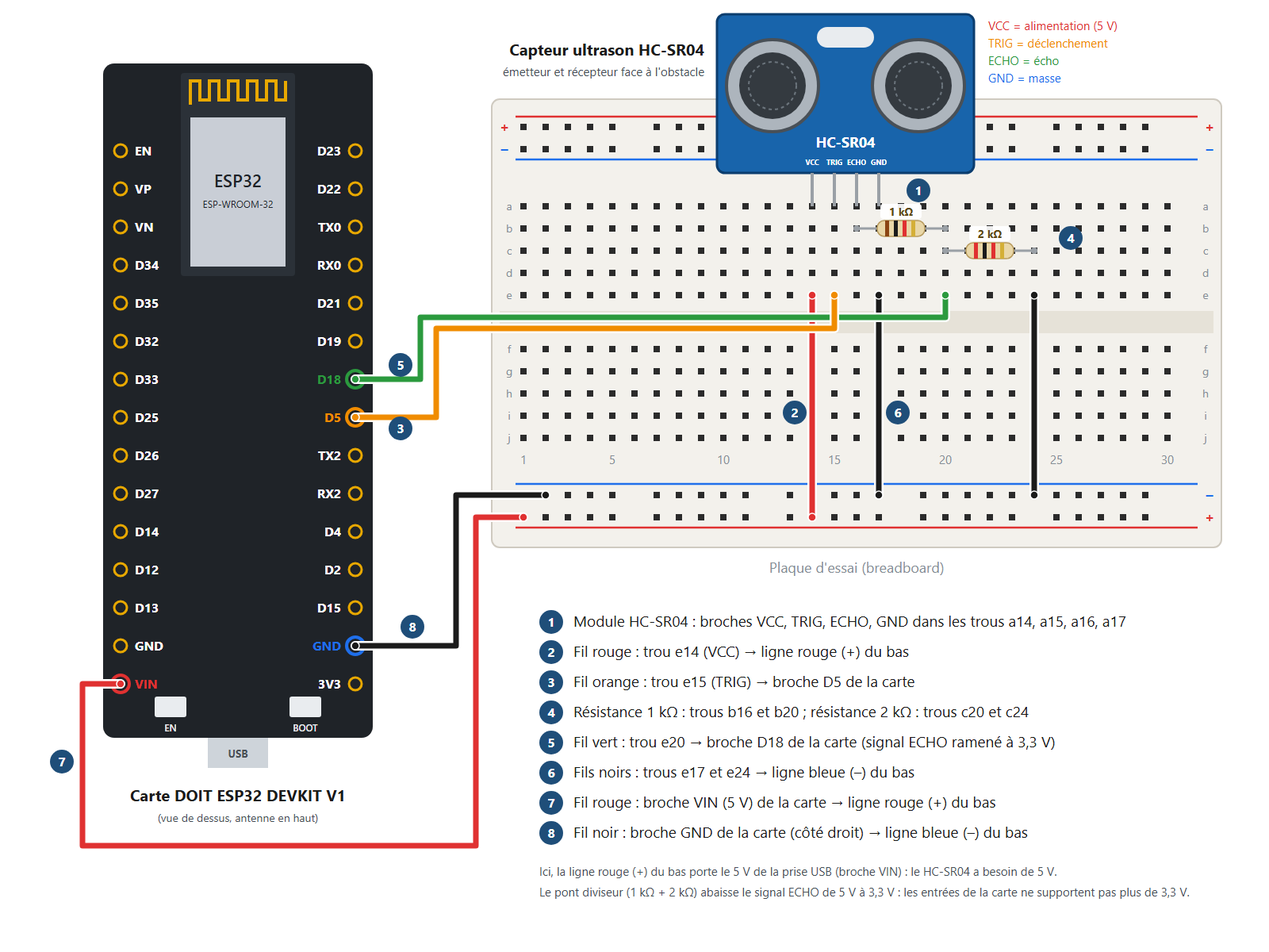
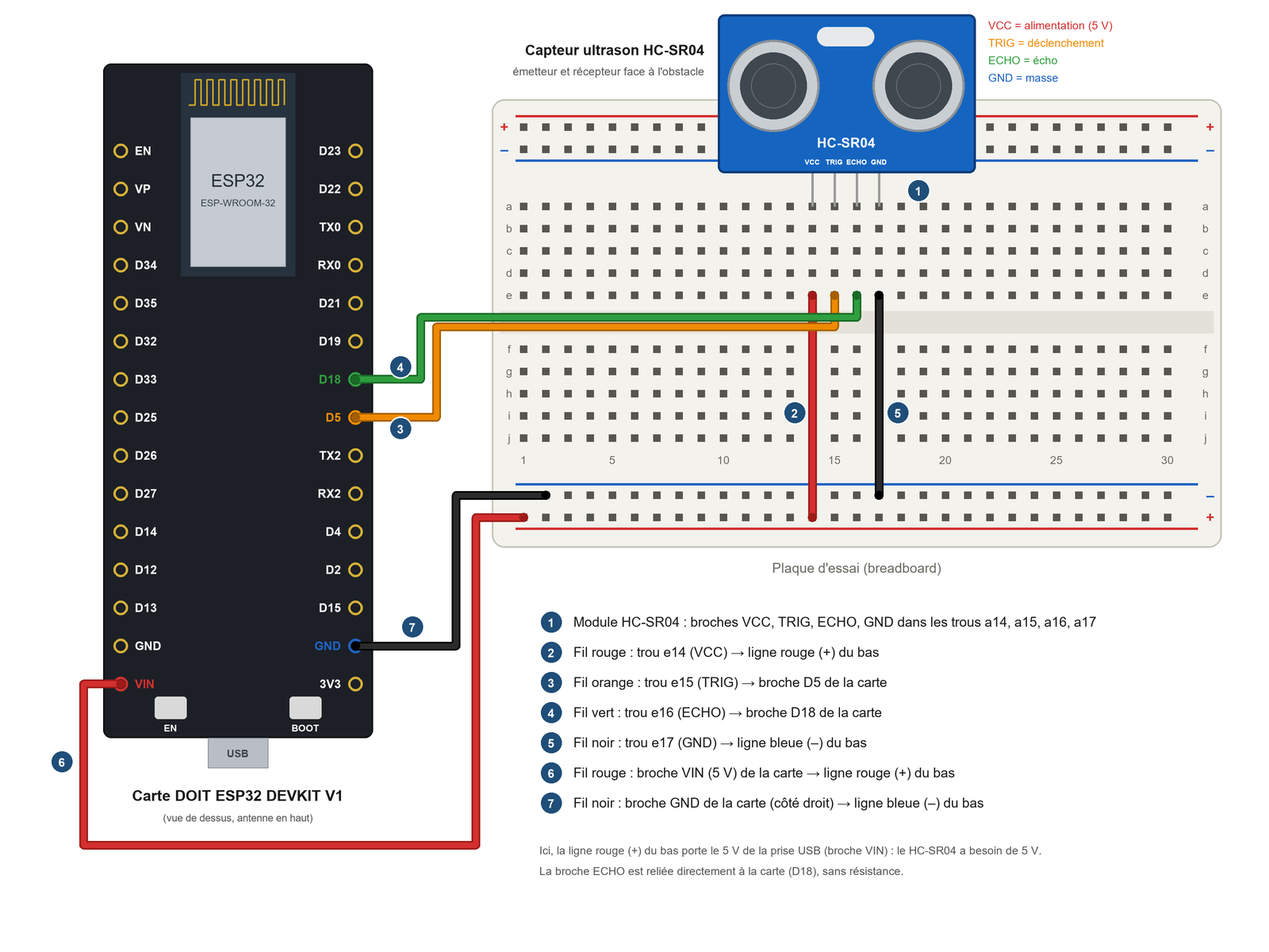
HC-SR04 : relier ECHO directement à la carte, sans pont diviseur
Fiches 06, 08 et 08.0, schémas, programmes et générateur mis à jour.

diff --git a/06_TP_Serveur_Web_capteur HCSR04/index.html b/06_TP_Serveur_Web_capteur HCSR04/index.html
@@ -26,11 +26,11 @@
 <nav class="serie" aria-label="Les TP"><a href="../03_TP_Intro_ESP32/index.html"><b>TP 03</b>TP Intro ESP32</a><a href="../04_TP_Serveur_Web_LED/index.html"><b>TP 04</b>TP serveur web LED</a><a href="../05_TP_Serveur_Web_DHT11/index.html"><b>TP 05</b>TP serveur web DHT11</a><span class="ici"><b>TP 06</b>TP capteur HC-SR04</span><a href="../07_TP_Serveur_Web_servomoteur%20SG90/index.html"><b>TP 07</b>TP servomoteur SG90</a><a href="../08_0_Activite_Maintenance_Machine_v0/index.html"><b>TP 08.0</b>Activité maintenance v0</a><a href="../08_Activite_Maintenance_Machine/index.html"><b>TP 08</b>Activité maintenance</a></nav>
 
 <section><h2>1. Objectifs</h2>
-<ul><li>Comprendre comment le capteur HC-SR04 mesure une distance avec des ultrasons.</li><li>Réaliser le câblage du capteur, avec son pont diviseur, puis de trois LED.</li><li>Écrire et tester votre programme de mesure dans l&#x27;Arduino IDE.</li><li>Simuler l&#x27;espace de travail d&#x27;un robot mobile : une LED rouge, jaune ou verte s&#x27;allume selon la distance de l&#x27;obstacle.</li><li>Créer le serveur web avec le générateur de tableau de bord : jauge, voyants, courbe et fichier CSV.</li><li>Déterminer l&#x27;erreur de mesure du capteur avec un tableur.</li></ul>
+<ul><li>Comprendre comment le capteur HC-SR04 mesure une distance avec des ultrasons.</li><li>Réaliser le câblage du capteur, puis de trois LED.</li><li>Écrire et tester votre programme de mesure dans l&#x27;Arduino IDE.</li><li>Simuler l&#x27;espace de travail d&#x27;un robot mobile : une LED rouge, jaune ou verte s&#x27;allume selon la distance de l&#x27;obstacle.</li><li>Créer le serveur web avec le générateur de tableau de bord : jauge, voyants, courbe et fichier CSV.</li><li>Déterminer l&#x27;erreur de mesure du capteur avec un tableur.</li></ul>
 <div class="note "><p class="nt">Ce qui vous est fourni</p><ul><li>Le générateur de tableau de bord (<a href="../09_Application_Generateur_Page_Web/Generateur_Page_Web_ESP32_etudiant.html">Generateur_Page_Web_ESP32_etudiant.html</a>, ou en ligne : <a href="https://celdobigeon.github.io/IoT/">celdobigeon.github.io/IoT</a>) : c&#x27;est avec lui que vous créerez le programme du serveur web.</li><li>Les schémas de câblage et le schéma électrique de cette fiche.</li></ul><p>Votre travail : le câblage, vos programmes de mesure et de l&#x27;espace de travail, la création du serveur web avec le générateur, les tests, l&#x27;étude de l&#x27;erreur de mesure et les questions.</p></div>
 </section>
 <section><h2>2. Matériel</h2>
-<div class="tbl"><table><tr><th><p><b>Matériel</b></p></th><th><p><b>Remarque</b></p></th></tr><tr><td><p>1 carte DOIT ESP32 DEVKIT V1 + câble micro-USB</p></td><td><p>Le câble doit permettre le transfert de données (pas seulement la charge)</p></td></tr><tr><td><p>1 capteur ultrason HC-SR04</p></td><td><p>4 broches : VCC, TRIG, ECHO, GND. Il s&#x27;alimente en 5 V</p></td></tr><tr><td><p>1 résistance de 1 kΩ et 1 résistance de 2 kΩ</p></td><td><p>Le pont diviseur du signal ECHO (marron-noir-rouge et rouge-noir-rouge)</p></td></tr><tr><td><p>3 LED (rouge, jaune, verte) + 3 résistances de 220 Ω</p></td><td><p>Pour l&#x27;espace de travail du robot (partie 6)</p></td></tr><tr><td><p>1 plaque d&#x27;essai + fils mâle-femelle et mâle-mâle</p></td><td><p>Côté femelle : sur les broches de la carte ; côté mâle : dans la plaque d&#x27;essai</p></td></tr><tr><td><p>1 réglet (ou un mètre) et un obstacle plat (livre, carton)</p></td><td><p>Pour connaître la distance réelle de l&#x27;obstacle</p></td></tr><tr><td><p>1 ordinateur avec l&#x27;Arduino IDE</p></td><td><p>Les cartes ESP32 sont déjà installées</p></td></tr><tr><td><p>1 smartphone (ou l&#x27;ordinateur) avec un navigateur web</p></td><td><p>Connecté au même réseau Wi-Fi que la carte</p></td></tr><tr><td><p>Un tableur (Excel ou LibreOffice Calc)</p></td><td><p>Pour étudier l&#x27;erreur de mesure</p></td></tr></table></div>
+<div class="tbl"><table><tr><th><p><b>Matériel</b></p></th><th><p><b>Remarque</b></p></th></tr><tr><td><p>1 carte DOIT ESP32 DEVKIT V1 + câble micro-USB</p></td><td><p>Le câble doit permettre le transfert de données (pas seulement la charge)</p></td></tr><tr><td><p>1 capteur ultrason HC-SR04</p></td><td><p>4 broches : VCC, TRIG, ECHO, GND. Il s&#x27;alimente en 5 V</p></td></tr><tr><td><p>3 LED (rouge, jaune, verte) + 3 résistances de 220 Ω</p></td><td><p>Pour l&#x27;espace de travail du robot (partie 6)</p></td></tr><tr><td><p>1 plaque d&#x27;essai + fils mâle-femelle et mâle-mâle</p></td><td><p>Côté femelle : sur les broches de la carte ; côté mâle : dans la plaque d&#x27;essai</p></td></tr><tr><td><p>1 réglet (ou un mètre) et un obstacle plat (livre, carton)</p></td><td><p>Pour connaître la distance réelle de l&#x27;obstacle</p></td></tr><tr><td><p>1 ordinateur avec l&#x27;Arduino IDE</p></td><td><p>Les cartes ESP32 sont déjà installées</p></td></tr><tr><td><p>1 smartphone (ou l&#x27;ordinateur) avec un navigateur web</p></td><td><p>Connecté au même réseau Wi-Fi que la carte</p></td></tr><tr><td><p>Un tableur (Excel ou LibreOffice Calc)</p></td><td><p>Pour étudier l&#x27;erreur de mesure</p></td></tr></table></div>
 </section>
 <section><h2>3. Le capteur ultrason HC-SR04</h2>
 <p>Le capteur HC-SR04 mesure la distance d&#x27;un obstacle grâce aux ultrasons. Le module contient un émetteur et un récepteur d&#x27;ultrasons, et une puce qui les pilote.</p>
@@ -44,19 +44,19 @@
 <p>La broche ECHO reste à HIGH pendant les étapes 3 et 4 : sa durée est celle de l&#x27;aller-retour des ultrasons. La carte mesure cette durée et en déduit la distance.</p>
 <div class="note "><p class="nt">Calculer la distance</p><p>Le son parcourt environ 343 m/s dans l&#x27;air à 20 °C, soit <b>0,343 mm par microseconde</b>.</p><p>La durée mesurée correspond à un <b>aller-retour</b> : la distance de l&#x27;obstacle est la moitié du chemin parcouru.</p><p>Distance (mm) = durée (µs) × 0,343 / 2</p></div>
 <h3>Caractéristiques techniques</h3>
-<div class="tbl"><table><tr><th><p><b>Caractéristique</b></p></th><th><p><b>Valeur</b></p></th></tr><tr><td><p>Tension d&#x27;alimentation</p></td><td><p>5 V</p></td></tr><tr><td><p>Consommation</p></td><td><p>environ 20 mA en fonctionnement</p></td></tr><tr><td><p>Portée</p></td><td><p>de 2 cm à 4 m en théorie ; de 10 cm à 2,5 m pour de bons résultats</p></td></tr><tr><td><p>Angle de mesure</p></td><td><p>moins de 15°</p></td></tr><tr><td><p>Fréquence des ultrasons</p></td><td><p>40 kHz</p></td></tr><tr><td><p>Signal ECHO</p></td><td><p>5 V quand il est à HIGH : il faut l&#x27;abaisser à 3,3 V pour la carte</p></td></tr></table></div>
+<div class="tbl"><table><tr><th><p><b>Caractéristique</b></p></th><th><p><b>Valeur</b></p></th></tr><tr><td><p>Tension d&#x27;alimentation</p></td><td><p>5 V</p></td></tr><tr><td><p>Consommation</p></td><td><p>environ 20 mA en fonctionnement</p></td></tr><tr><td><p>Portée</p></td><td><p>de 2 cm à 4 m en théorie ; de 10 cm à 2,5 m pour de bons résultats</p></td></tr><tr><td><p>Angle de mesure</p></td><td><p>moins de 15°</p></td></tr><tr><td><p>Fréquence des ultrasons</p></td><td><p>40 kHz</p></td></tr><tr><td><p>Signal ECHO</p></td><td><p>5 V quand il est à HIGH : la broche ECHO est reliée directement à la carte</p></td></tr></table></div>
 </section>
 <section><h2>4. Le câblage</h2>
-<div class="note amber"><p class="nt">Rappels</p><ul><li>Le HC-SR04 s&#x27;alimente en 5 V : la broche VIN de la carte fournit le 5 V de la prise USB.</li><li>La broche ECHO renvoie 5 V, alors que les entrées de la carte ne supportent que 3,3 V : le pont diviseur (1 kΩ et 2 kΩ) abaisse ce signal à 3,3 V.</li><li>Sur la plaque d&#x27;essai, les 5 trous d&#x27;une même colonne (a à e, ou f à j) sont reliés entre eux.</li><li>Réalisez tout le câblage carte débranchée.</li></ul></div>
+<div class="note amber"><p class="nt">Rappels</p><ul><li>Le HC-SR04 s&#x27;alimente en 5 V : la broche VIN de la carte fournit le 5 V de la prise USB.</li><li>La broche ECHO se relie directement à une entrée de la carte (D18), sans résistance.</li><li>Sur la plaque d&#x27;essai, les 5 trous d&#x27;une même colonne (a à e, ou f à j) sont reliés entre eux.</li><li>Réalisez tout le câblage carte débranchée.</li></ul></div>
 <h3>Schéma de câblage</h3>
 <figure><img src="img/figure_03.png" alt="" loading="lazy" style="max-width:623px"></figure>
-<p>Figure 3 – Câblage du capteur HC-SR04 et de son pont diviseur (les numéros correspondent à la légende)</p>
+<p>Figure 3 – Câblage du capteur HC-SR04 (les numéros correspondent à la légende)</p>
 <h3>Schéma électrique</h3>
 <figure><img src="img/figure_04.png" alt="" loading="lazy" style="max-width:623px"></figure>
-<p>Figure 4 – Schéma électrique : capteur HC-SR04, pont diviseur et trois LED (les LED servent à la partie 6)</p>
+<p>Figure 4 – Schéma électrique : capteur HC-SR04 et trois LED (les LED servent à la partie 6)</p>
 <h3>Étapes</h3>
-<ol><li><b>Capteur HC-SR04</b> : broches VCC, TRIG, ECHO, GND dans les trous a14, a15, a16, a17, émetteur et récepteur face à vous.</li><li><b>Fil rouge</b> : du trou e14 (VCC) à la ligne rouge (+) du bas.</li><li><b>Fil orange</b> : du trou e15 (TRIG) à la broche <b>D5</b> de la carte.</li><li><b>Résistance 1 kΩ</b> dans les trous b16 et b20 ; <b>résistance 2 kΩ</b> dans les trous c20 et c24.</li><li><b>Fil vert</b> : du trou e20 à la broche <b>D18</b> de la carte (signal ECHO ramené à 3,3 V).</li><li><b>Fils noirs</b> : des trous e17 et e24 à la ligne bleue (–) du bas.</li><li><b>Fil rouge</b> : de la broche <b>VIN</b> (5 V) de la carte à la ligne rouge (+) du bas.</li><li><b>Fil noir</b> : de la broche <b>GND</b> de la carte (côté droit) à la ligne bleue (–) du bas.</li></ol>
-<div class="note warn"><p class="nt">Attention</p><ul><li>Ne reliez jamais la broche ECHO directement à la carte : 5 V sur une entrée prévue pour 3,3 V peut l&#x27;abîmer.</li><li>Ici, la ligne rouge (+) du bas porte du 5 V : n&#x27;y branchez pas de composant prévu pour 3,3 V.</li></ul></div>
+<ol><li><b>Capteur HC-SR04</b> : broches VCC, TRIG, ECHO, GND dans les trous a14, a15, a16, a17, émetteur et récepteur face à vous.</li><li><b>Fil rouge</b> : du trou e14 (VCC) à la ligne rouge (+) du bas.</li><li><b>Fil orange</b> : du trou e15 (TRIG) à la broche <b>D5</b> de la carte.</li><li><b>Fil vert : du trou e16 (ECHO) à la broche D18 de la carte.</b></li><li><b>Fil noir : du trou e17 (GND) à la ligne bleue (–) du bas.</b></li><li><b>Fil rouge</b> : de la broche <b>VIN</b> (5 V) de la carte à la ligne rouge (+) du bas.</li><li><b>Fil noir</b> : de la broche <b>GND</b> de la carte (côté droit) à la ligne bleue (–) du bas.</li></ol>
+<div class="note warn"><p class="nt">Attention</p><ul><li>La broche ECHO renvoie 5 V à l&#x27;état HIGH, au-dessus des 3,3 V prévus pour les broches de la carte : ce montage simplifié fonctionne avec ces modules, mais ne reliez pas d&#x27;autre composant 5 V de cette façon.</li><li>Ici, la ligne rouge (+) du bas porte du 5 V : n&#x27;y branchez pas de composant prévu pour 3,3 V.</li></ul></div>
 <p><b>Faites vérifier votre câblage par l&#x27;enseignant avant de brancher la carte.</b></p>
 <ul class="check"><li>Câblage vérifié</li></ul>
 </section>
@@ -89,7 +89,7 @@
 <ul class="check"><li>Les deux graphiques sont réalisés</li></ul>
 </section>
 <section class="questions"><h2>10. Questions de compréhension</h2>
-<ol><li>Pourquoi divise-t-on par 2 la durée de l&#x27;écho pour calculer la distance ?</li><li>Le capteur mesure une durée d&#x27;écho de 1 200 µs. À quelle distance se trouve l&#x27;obstacle ?</li><li>Pourquoi faut-il un pont diviseur sur la broche ECHO, mais pas sur la broche TRIG ? Calculez la tension obtenue avec 1 kΩ et 2 kΩ.</li><li>Dans le programme du serveur web, qui allume les LED : la page web ou la carte ? Que se passe-t-il quand personne n&#x27;ouvre la page ?</li><li>Que renvoie pulseIn() quand aucun obstacle ne renvoie d&#x27;écho ? Comment le programme créé par le générateur évite-t-il d&#x27;afficher 0 ?</li><li>D&#x27;après votre étude de l&#x27;erreur, sur quelle plage de distances le capteur est-il le plus fiable ? Proposez une explication aux écarts en dehors de cette plage.</li><li>La vitesse du son dépend de la température : 331 m/s à 0 °C, 343 m/s à 20 °C. Quelle erreur commet-on à 0 °C pour un obstacle à 300 mm, si le programme garde 343 m/s ?</li><li>Maintenance : on veut surveiller le niveau d&#x27;huile d&#x27;une cuve avec ce capteur, placé au-dessus. Que mesure-t-il exactement ? Comment en déduire la hauteur d&#x27;huile ?</li></ol>
+<ol><li>Pourquoi divise-t-on par 2 la durée de l&#x27;écho pour calculer la distance ?</li><li>Le capteur mesure une durée d&#x27;écho de 1 200 µs. À quelle distance se trouve l&#x27;obstacle ?</li><li>Quel est le rôle de la broche TRIG et celui de la broche ECHO ? Laquelle est une entrée du capteur, laquelle est une sortie ?</li><li>Dans le programme du serveur web, qui allume les LED : la page web ou la carte ? Que se passe-t-il quand personne n&#x27;ouvre la page ?</li><li>Que renvoie pulseIn() quand aucun obstacle ne renvoie d&#x27;écho ? Comment le programme créé par le générateur évite-t-il d&#x27;afficher 0 ?</li><li>D&#x27;après votre étude de l&#x27;erreur, sur quelle plage de distances le capteur est-il le plus fiable ? Proposez une explication aux écarts en dehors de cette plage.</li><li>La vitesse du son dépend de la température : 331 m/s à 0 °C, 343 m/s à 20 °C. Quelle erreur commet-on à 0 °C pour un obstacle à 300 mm, si le programme garde 343 m/s ?</li><li>Maintenance : on veut surveiller le niveau d&#x27;huile d&#x27;une cuve avec ce capteur, placé au-dessus. Que mesure-t-il exactement ? Comment en déduire la hauteur d&#x27;huile ?</li></ol>
 </section>
 <section><h2>11. Pour aller plus loin</h2>
 <h3>A. Afficher la distance sur un écran LCD (I2C)</h3>
@@ -98,7 +98,7 @@
 <ul><li>Ajoutez le module DHT11 du TP 05 et calculez la vitesse du son : v (m/s) = 331,3 + 0,606 × température (°C).</li><li>Utilisez cette vitesse dans le calcul de la distance, et comparez avec la valeur à 343 m/s.</li></ul>
 </section>
 <section><h2>12. En cas de problème</h2>
-<div class="tbl"><table><tr><th><p><b>Problème</b></p></th><th><p><b>Solution</b></p></th></tr><tr><td><p>La carte n&#x27;apparaît pas dans Outils &gt; Port</p></td><td><p>Vérifier le câble micro-USB (données), installer le pilote USB (CP210x), changer de port USB.</p></td></tr><tr><td><p>Le téléversement bloque sur « Connecting… »</p></td><td><p>Maintenir le bouton BOOT enfoncé au début du téléversement.</p></td></tr><tr><td><p>La distance affichée vaut toujours 0</p></td><td><p>Vérifier l&#x27;alimentation 5 V (fil VIN → ligne rouge), les broches TRIG (D5) et ECHO (D18) dans le câblage et le programme, et le pont diviseur.</p></td></tr><tr><td><p>La distance saute ou est fausse</p></td><td><p>Obstacle trop petit, trop loin, mou (tissu) ou de biais : utiliser un obstacle plat, face au capteur, entre 10 cm et 2,5 m.</p></td></tr><tr><td><p>Des points s&#x27;affichent sans fin dans le moniteur série</p></td><td><p>La carte ne trouve pas le réseau Wi-Fi : vérifier le nom et le mot de passe saisis dans le générateur, puis prévenir l&#x27;enseignant.</p></td></tr><tr><td><p>Rien ne s&#x27;affiche dans le moniteur série</p></td><td><p>Régler la vitesse sur 115200 bauds, puis appuyer sur EN.</p></td></tr><tr><td><p>Une LED ne s&#x27;allume jamais</p></td><td><p>Vérifier sa broche (D21, D22 ou D23), le sens de la LED, sa résistance et sa liaison à la ligne bleue (–).</p></td></tr><tr><td><p>La page ne s&#x27;ouvre pas</p></td><td><p>Vérifier que le téléphone est sur le même Wi-Fi et que l&#x27;adresse commence par http:// (et non https://).</p></td></tr></table></div>
+<div class="tbl"><table><tr><th><p><b>Problème</b></p></th><th><p><b>Solution</b></p></th></tr><tr><td><p>La carte n&#x27;apparaît pas dans Outils &gt; Port</p></td><td><p>Vérifier le câble micro-USB (données), installer le pilote USB (CP210x), changer de port USB.</p></td></tr><tr><td><p>Le téléversement bloque sur « Connecting… »</p></td><td><p>Maintenir le bouton BOOT enfoncé au début du téléversement.</p></td></tr><tr><td><p>La distance affichée vaut toujours 0</p></td><td><p>Vérifier l&#x27;alimentation 5 V (fil VIN → ligne rouge) et les broches TRIG (D5) et ECHO (D18) dans le câblage et le programme.</p></td></tr><tr><td><p>La distance saute ou est fausse</p></td><td><p>Obstacle trop petit, trop loin, mou (tissu) ou de biais : utiliser un obstacle plat, face au capteur, entre 10 cm et 2,5 m.</p></td></tr><tr><td><p>Des points s&#x27;affichent sans fin dans le moniteur série</p></td><td><p>La carte ne trouve pas le réseau Wi-Fi : vérifier le nom et le mot de passe saisis dans le générateur, puis prévenir l&#x27;enseignant.</p></td></tr><tr><td><p>Rien ne s&#x27;affiche dans le moniteur série</p></td><td><p>Régler la vitesse sur 115200 bauds, puis appuyer sur EN.</p></td></tr><tr><td><p>Une LED ne s&#x27;allume jamais</p></td><td><p>Vérifier sa broche (D21, D22 ou D23), le sens de la LED, sa résistance et sa liaison à la ligne bleue (–).</p></td></tr><tr><td><p>La page ne s&#x27;ouvre pas</p></td><td><p>Vérifier que le téléphone est sur le même Wi-Fi et que l&#x27;adresse commence par http:// (et non https://).</p></td></tr></table></div>
 </section>
 <footer>Céline Dobigeon — IUT, Université de Bordeaux · <a href="../index.html">Retour à l'accueil</a></footer>
 </div>

diff --git a/08_Activite_Maintenance_Machine/index.html b/08_Activite_Maintenance_Machine/index.html
@@ -35,12 +35,12 @@
 <div class="note "><p class="nt">Règles de fonctionnement</p><ul><li>L&#x27;état de la machine est celui de l&#x27;indicateur le plus grave.</li><li>ALERTE (orange) : la machine continue, mais il faut prévoir une intervention.</li><li>ALARME (rouge) : la machine s&#x27;arrête automatiquement et refuse de redémarrer tant que la cause n&#x27;est pas traitée.</li><li>Après l&#x27;entretien périodique, l&#x27;opérateur appuie sur « Entretien effectué » pour remettre le compteur à zéro.</li></ul></div>
 </section>
 <section><h2>3. Matériel</h2>
-<div class="tbl"><table><tr><th><p><b>Matériel</b></p></th><th><p><b>Remarque</b></p></th></tr><tr><td><p>1 carte DOIT ESP32 DEVKIT V1 + câble micro-USB</p></td><td></td></tr><tr><td><p>1 servomoteur SG90</p></td><td><p>Alimenté en 5 V (broche VIN)</p></td></tr><tr><td><p>1 potentiomètre</p></td><td><p>10 kΩ par exemple</p></td></tr><tr><td><p>1 capteur ultrason HC-SR04</p></td><td><p>Alimenté en 5 V</p></td></tr><tr><td><p>1 capteur DHT11 (module 3 broches)</p></td><td><p>Un DHT11 nu à 4 broches demande en plus une résistance de 10 kΩ entre DATA et VCC</p></td></tr><tr><td><p>2 boutons poussoirs</p></td><td><p>Pas de résistance nécessaire</p></td></tr><tr><td><p>3 LED (verte, orange, rouge) + 3 résistances de 220 Ω</p></td><td></td></tr><tr><td><p>1 résistance de 1 kΩ + 1 résistance de 2 kΩ</p></td><td><p>Pont diviseur pour la broche ECHO (2 kΩ = deux résistances de 1 kΩ en série)</p></td></tr><tr><td><p>1 ou 2 plaques d&#x27;essai + fils de connexion</p></td><td></td></tr><tr><td><p>1 morceau de carton</p></td><td><p>Simule la surface du lubrifiant devant le capteur ultrason</p></td></tr></table></div>
+<div class="tbl"><table><tr><th><p><b>Matériel</b></p></th><th><p><b>Remarque</b></p></th></tr><tr><td><p>1 carte DOIT ESP32 DEVKIT V1 + câble micro-USB</p></td><td></td></tr><tr><td><p>1 servomoteur SG90</p></td><td><p>Alimenté en 5 V (broche VIN)</p></td></tr><tr><td><p>1 potentiomètre</p></td><td><p>10 kΩ par exemple</p></td></tr><tr><td><p>1 capteur ultrason HC-SR04</p></td><td><p>Alimenté en 5 V</p></td></tr><tr><td><p>1 capteur DHT11 (module 3 broches)</p></td><td><p>Un DHT11 nu à 4 broches demande en plus une résistance de 10 kΩ entre DATA et VCC</p></td></tr><tr><td><p>2 boutons poussoirs</p></td><td><p>Pas de résistance nécessaire</p></td></tr><tr><td><p>3 LED (verte, orange, rouge) + 3 résistances de 220 Ω</p></td><td></td></tr><tr><td><p>1 ou 2 plaques d&#x27;essai + fils de connexion</p></td><td></td></tr><tr><td><p>1 morceau de carton</p></td><td><p>Simule la surface du lubrifiant devant le capteur ultrason</p></td></tr></table></div>
 </section>
 <section><h2>4. Câblage</h2>
 <figure><img src="img/figure_01.png" alt="" loading="lazy" style="max-width:661px"><figcaption><em>Figure 1 – Câblage de la machine pédagogique</em></figcaption></figure>
-<div class="tbl"><table><tr><th><p><b>Composant</b></p></th><th><p><b>Broche du composant</b></p></th><th><p><b>Relier à</b></p></th></tr><tr><td><p>Potentiomètre</p></td><td><p>Broche extrême / curseur (milieu) / autre broche extrême</p></td><td><p>3V3 / D34 / GND</p></td></tr><tr><td><p>Servomoteur SG90</p></td><td><p>Fil marron / rouge / orange</p></td><td><p>GND / VIN (5 V) / D32</p></td></tr><tr><td><p>HC-SR04</p></td><td><p>VCC / GND</p></td><td><p>VIN (5 V) / GND</p></td></tr><tr><td><p>HC-SR04</p></td><td><p>TRIG</p></td><td><p>D33</p></td></tr><tr><td><p>HC-SR04</p></td><td><p>ECHO</p></td><td><p>résistance 1 kΩ → D25, et résistance 2 kΩ entre D25 et GND</p></td></tr><tr><td><p>DHT11</p></td><td><p>VCC / DATA / GND</p></td><td><p>3V3 / D4 / GND</p></td></tr><tr><td><p>Bouton Marche / Arrêt</p></td><td><p>une patte / l&#x27;autre patte</p></td><td><p>D23 / GND</p></td></tr><tr><td><p>Bouton Entretien effectué</p></td><td><p>une patte / l&#x27;autre patte</p></td><td><p>D22 / GND</p></td></tr><tr><td><p>LED verte, orange, rouge</p></td><td><p>patte longue (+) via 220 Ω / patte courte (–)</p></td><td><p>D21, D19, D18 / GND</p></td></tr></table></div>
-<div class="note warn"><p class="nt">Attention</p><ul><li>La broche ECHO du HC-SR04 envoie du 5 V : sans le pont diviseur, elle peut endommager l&#x27;ESP32 (ses entrées acceptent au plus 3,3 V).</li><li>Le potentiomètre et le DHT11 sont alimentés en 3,3 V (broche 3V3). Le servomoteur et le HC-SR04 en 5 V (broche VIN).</li><li>Toutes les masses (GND) doivent être reliées entre elles.</li><li>Câbler carte débranchée, et faire vérifier avant de brancher.</li></ul></div>
+<div class="tbl"><table><tr><th><p><b>Composant</b></p></th><th><p><b>Broche du composant</b></p></th><th><p><b>Relier à</b></p></th></tr><tr><td><p>Potentiomètre</p></td><td><p>Broche extrême / curseur (milieu) / autre broche extrême</p></td><td><p>3V3 / D34 / GND</p></td></tr><tr><td><p>Servomoteur SG90</p></td><td><p>Fil marron / rouge / orange</p></td><td><p>GND / VIN (5 V) / D32</p></td></tr><tr><td><p>HC-SR04</p></td><td><p>VCC / GND</p></td><td><p>VIN (5 V) / GND</p></td></tr><tr><td><p>HC-SR04</p></td><td><p>TRIG</p></td><td><p>D33</p></td></tr><tr><td><p>HC-SR04</p></td><td><p>ECHO</p></td><td><p>D25 (relié directement, sans résistance)</p></td></tr><tr><td><p>DHT11</p></td><td><p>VCC / DATA / GND</p></td><td><p>3V3 / D4 / GND</p></td></tr><tr><td><p>Bouton Marche / Arrêt</p></td><td><p>une patte / l&#x27;autre patte</p></td><td><p>D23 / GND</p></td></tr><tr><td><p>Bouton Entretien effectué</p></td><td><p>une patte / l&#x27;autre patte</p></td><td><p>D22 / GND</p></td></tr><tr><td><p>LED verte, orange, rouge</p></td><td><p>patte longue (+) via 220 Ω / patte courte (–)</p></td><td><p>D21, D19, D18 / GND</p></td></tr></table></div>
+<div class="note warn"><p class="nt">Attention</p><ul><li>La broche ECHO du HC-SR04 est reliée directement à D25. La broche ECHO renvoie 5 V à l&#x27;état HIGH, au-dessus des 3,3 V prévus pour les broches de la carte : ce montage simplifié fonctionne avec ces modules, mais ne reliez pas d&#x27;autre composant 5 V de cette façon.</li><li>Le potentiomètre et le DHT11 sont alimentés en 3,3 V (broche 3V3). Le servomoteur et le HC-SR04 en 5 V (broche VIN).</li><li>Toutes les masses (GND) doivent être reliées entre elles.</li><li>Câbler carte débranchée, et faire vérifier avant de brancher.</li></ul></div>
 <ul class="check"><li>Câblage vérifié par l&#x27;enseignant</li></ul>
 </section>
 <section><h2>5. Le programme</h2>
@@ -65,7 +65,7 @@
 <div class="tbl"><table><tr><th><p><b>Scénario</b></p></th><th><p><b>Indicateur</b></p></th><th><p><b>Valeur au passage à l&#x27;orange</b></p></th><th><p><b>Valeur au passage au rouge</b></p></th><th><p><b>La machine s&#x27;arrête-t-elle ?</b></p></th></tr><tr><td><p>B</p></td><td><p>Cycles</p></td><td></td><td></td><td></td></tr><tr><td><p>C</p></td><td><p>Effort (%)</p></td><td></td><td></td><td></td></tr><tr><td><p>D</p></td><td><p>Niveau (%)</p></td><td></td><td></td><td></td></tr><tr><td><p>E</p></td><td><p>Température / humidité</p></td><td></td><td></td><td></td></tr></table></div>
 </section>
 <section class="questions"><h2>7. Questions</h2>
-<ol><li>Pour chaque indicateur surveillé (cycles, effort, niveau, température, humidité), indiquez s&#x27;il relève de la maintenance systématique ou conditionnelle. Justifiez pour le compteur de cycles.</li><li>Pourquoi la machine s&#x27;arrête-t-elle automatiquement en alarme ? Pourquoi refuse-t-elle de redémarrer tant que la cause n&#x27;a pas été traitée ?</li><li>Le capteur HC-SR04 mesure une durée. Expliquez comment le programme en déduit la distance, puis le niveau de lubrifiant.</li><li>Pourquoi la broche ECHO du HC-SR04 passe-t-elle par un pont diviseur, alors que la broche TRIG est reliée directement à la carte ?</li><li>Dans une vraie usine, par quel capteur remplacerait-on le potentiomètre ? Proposez une amélioration qui permettrait de passer à la maintenance prévisionnelle.</li></ol>
+<ol><li>Pour chaque indicateur surveillé (cycles, effort, niveau, température, humidité), indiquez s&#x27;il relève de la maintenance systématique ou conditionnelle. Justifiez pour le compteur de cycles.</li><li>Pourquoi la machine s&#x27;arrête-t-elle automatiquement en alarme ? Pourquoi refuse-t-elle de redémarrer tant que la cause n&#x27;a pas été traitée ?</li><li>Le capteur HC-SR04 mesure une durée. Expliquez comment le programme en déduit la distance, puis le niveau de lubrifiant.</li><li>Quel est le rôle de la broche TRIG et celui de la broche ECHO du HC-SR04 ? Laquelle est une entrée du capteur, laquelle est une sortie ?</li><li>Dans une vraie usine, par quel capteur remplacerait-on le potentiomètre ? Proposez une amélioration qui permettrait de passer à la maintenance prévisionnelle.</li></ol>
 </section>
 <section><h2>8. Pistes d&#x27;amélioration</h2>
 <ul><li><b>Maintenance prévisionnelle : </b>mesurer la baisse du niveau de lubrifiant par cycle et estimer le nombre de cycles restants avant l&#x27;alerte.</li><li><b>Historique : </b>envoyer les mesures vers Arduino Cloud pour tracer leur évolution et repérer les tendances.</li><li><b>Journal de maintenance : </b>enregistrer la date de chaque entretien et de chaque alarme, et les afficher sur la page web.</li><li><b>Alertes : </b>ajouter un buzzer, ou prévenir le technicien à distance.</li><li><b>Sécurité : </b>protéger la page web par un mot de passe, pour que personne ne puisse agir sur la machine sans autorisation.</li></ul>
@@ -96,7 +96,7 @@
 <span class="ar-type">const</span> <span class="ar-type">int</span> PIN_POT    = 34;   <span class="ar-com">// potentiomètre (entrée analogique compatible Wi-Fi)</span>
 <span class="ar-type">const</span> <span class="ar-type">int</span> PIN_SERVO  = 32;   <span class="ar-com">// servomoteur SG90 (signal)</span>
 <span class="ar-type">const</span> <span class="ar-type">int</span> PIN_TRIG   = 33;   <span class="ar-com">// HC-SR04 TRIG</span>
-<span class="ar-type">const</span> <span class="ar-type">int</span> PIN_ECHO   = 25;   <span class="ar-com">// HC-SR04 ECHO (via pont diviseur 1 kΩ / 2 kΩ)</span>
+<span class="ar-type">const</span> <span class="ar-type">int</span> PIN_ECHO   = 25;   <span class="ar-com">// HC-SR04 ECHO (reliée directement)</span>
 <span class="ar-type">const</span> <span class="ar-type">int</span> PIN_DHT    = 4;    <span class="ar-com">// DHT11 DATA</span>
 <span class="ar-type">const</span> <span class="ar-type">int</span> BTN_MARCHE = 23;   <span class="ar-com">// bouton marche / arrêt</span>
 <span class="ar-type">const</span> <span class="ar-type">int</span> BTN_ENTRETIEN = 22; <span class="ar-com">// bouton &quot;entretien effectué&quot;</span>

diff --git a/08_0_Activite_Maintenance_Machine_v0/index.html b/08_0_Activite_Maintenance_Machine_v0/index.html
@@ -35,12 +35,12 @@
 <div class="note "><p class="nt">Règles de fonctionnement</p><ul><li>L&#x27;état de la machine est celui de l&#x27;indicateur le plus grave.</li><li>ALERTE (orange) : la machine peut continuer, mais il faut prévoir une intervention.</li><li>ALARME (rouge) : intervention immédiate, la machine doit être arrêtée. Dans cette version v0, il n&#x27;y a pas de moteur : l&#x27;arrêt n&#x27;est pas automatique, c&#x27;est la page web qui le demande.</li><li>Quand la cause disparaît (bac rempli, armoire refroidie ou asséchée), l&#x27;état redevient normal tout seul.</li></ul></div>
 </section>
 <section><h2>3. Matériel</h2>
-<div class="tbl"><table><tr><th><p><b>Matériel</b></p></th><th><p><b>Remarque</b></p></th></tr><tr><td><p>1 carte DOIT ESP32 DEVKIT V1 + câble micro-USB</p></td><td></td></tr><tr><td><p>1 capteur ultrason HC-SR04</p></td><td><p>Alimenté en 5 V</p></td></tr><tr><td><p>1 capteur DHT11 (module 3 broches)</p></td><td><p>Un DHT11 nu à 4 broches demande en plus une résistance de 10 kΩ entre DATA et VCC</p></td></tr><tr><td><p>3 LED (verte, orange, rouge) + 3 résistances de 220 Ω</p></td><td></td></tr><tr><td><p>1 résistance de 1 kΩ + 1 résistance de 2 kΩ</p></td><td><p>Pont diviseur pour la broche ECHO (2 kΩ = deux résistances de 1 kΩ en série)</p></td></tr><tr><td><p>1 plaque d&#x27;essai + fils de connexion</p></td><td></td></tr><tr><td><p>1 morceau de carton</p></td><td><p>Simule la surface du lubrifiant devant le capteur ultrason</p></td></tr></table></div>
+<div class="tbl"><table><tr><th><p><b>Matériel</b></p></th><th><p><b>Remarque</b></p></th></tr><tr><td><p>1 carte DOIT ESP32 DEVKIT V1 + câble micro-USB</p></td><td></td></tr><tr><td><p>1 capteur ultrason HC-SR04</p></td><td><p>Alimenté en 5 V</p></td></tr><tr><td><p>1 capteur DHT11 (module 3 broches)</p></td><td><p>Un DHT11 nu à 4 broches demande en plus une résistance de 10 kΩ entre DATA et VCC</p></td></tr><tr><td><p>3 LED (verte, orange, rouge) + 3 résistances de 220 Ω</p></td><td></td></tr><tr><td><p>1 plaque d&#x27;essai + fils de connexion</p></td><td></td></tr><tr><td><p>1 morceau de carton</p></td><td><p>Simule la surface du lubrifiant devant le capteur ultrason</p></td></tr></table></div>
 </section>
 <section><h2>4. Câblage</h2>
 <figure><img src="img/figure_01.png" alt="" loading="lazy" style="max-width:661px"><figcaption><em>Figure 1 – Câblage de la machine pédagogique (version v0)</em></figcaption></figure>
-<div class="tbl"><table><tr><th><p><b>Composant</b></p></th><th><p><b>Broche du composant</b></p></th><th><p><b>Relier à</b></p></th></tr><tr><td><p>HC-SR04</p></td><td><p>VCC / GND</p></td><td><p>VIN (5 V) / GND</p></td></tr><tr><td><p>HC-SR04</p></td><td><p>TRIG</p></td><td><p>D33</p></td></tr><tr><td><p>HC-SR04</p></td><td><p>ECHO</p></td><td><p>résistance 1 kΩ → D25, et résistance 2 kΩ entre D25 et GND</p></td></tr><tr><td><p>DHT11</p></td><td><p>VCC / DATA / GND</p></td><td><p>3V3 / D4 / GND</p></td></tr><tr><td><p>LED verte, orange, rouge</p></td><td><p>patte longue (+) via 220 Ω / patte courte (–)</p></td><td><p>D21, D19, D18 / GND</p></td></tr></table></div>
-<div class="note warn"><p class="nt">Attention</p><ul><li>La broche ECHO du HC-SR04 envoie du 5 V : sans le pont diviseur, elle peut endommager l&#x27;ESP32 (ses entrées acceptent au plus 3,3 V).</li><li>Le DHT11 est alimenté en 3,3 V (broche 3V3), le HC-SR04 en 5 V (broche VIN).</li><li>Toutes les masses (GND) doivent être reliées entre elles.</li><li>Câbler carte débranchée, et faire vérifier avant de brancher.</li></ul></div>
+<div class="tbl"><table><tr><th><p><b>Composant</b></p></th><th><p><b>Broche du composant</b></p></th><th><p><b>Relier à</b></p></th></tr><tr><td><p>HC-SR04</p></td><td><p>VCC / GND</p></td><td><p>VIN (5 V) / GND</p></td></tr><tr><td><p>HC-SR04</p></td><td><p>TRIG</p></td><td><p>D33</p></td></tr><tr><td><p>HC-SR04</p></td><td><p>ECHO</p></td><td><p>D25 (relié directement, sans résistance)</p></td></tr><tr><td><p>DHT11</p></td><td><p>VCC / DATA / GND</p></td><td><p>3V3 / D4 / GND</p></td></tr><tr><td><p>LED verte, orange, rouge</p></td><td><p>patte longue (+) via 220 Ω / patte courte (–)</p></td><td><p>D21, D19, D18 / GND</p></td></tr></table></div>
+<div class="note warn"><p class="nt">Attention</p><ul><li>La broche ECHO du HC-SR04 est reliée directement à D25. La broche ECHO renvoie 5 V à l&#x27;état HIGH, au-dessus des 3,3 V prévus pour les broches de la carte : ce montage simplifié fonctionne avec ces modules, mais ne reliez pas d&#x27;autre composant 5 V de cette façon.</li><li>Le DHT11 est alimenté en 3,3 V (broche 3V3), le HC-SR04 en 5 V (broche VIN).</li><li>Toutes les masses (GND) doivent être reliées entre elles.</li><li>Câbler carte débranchée, et faire vérifier avant de brancher.</li></ul></div>
 <ul class="check"><li>Câblage vérifié par l&#x27;enseignant</li></ul>
 </section>
 <section><h2>5. Le programme</h2>
@@ -61,7 +61,7 @@
 <div class="tbl"><table><tr><th><p><b>Scénario</b></p></th><th><p><b>Indicateur</b></p></th><th><p><b>Valeur au passage à l&#x27;orange</b></p></th><th><p><b>Valeur au passage au rouge</b></p></th><th><p><b>Cause affichée sur la page</b></p></th></tr><tr><td><p>B</p></td><td><p>Niveau (%)</p></td><td></td><td></td><td></td></tr><tr><td><p>C</p></td><td><p>Température (°C)</p></td><td></td><td></td><td></td></tr><tr><td><p>C</p></td><td><p>Humidité (%)</p></td><td></td><td></td><td></td></tr></table></div>
 </section>
 <section class="questions"><h2>7. Questions</h2>
-<ol><li>Les indicateurs surveillés (niveau, température, humidité) relèvent-ils de la maintenance systématique ou conditionnelle ? Justifiez. Que faudrait-il ajouter à la machine pour faire aussi de la maintenance systématique ?</li><li>Pourquoi utiliser deux seuils (alerte et alarme) plutôt qu&#x27;un seul ? Que doit faire l&#x27;opérateur dans chaque cas ?</li><li>Le capteur HC-SR04 mesure une durée. Expliquez comment le programme en déduit la distance, puis le niveau de lubrifiant.</li><li>Pourquoi la broche ECHO du HC-SR04 passe-t-elle par un pont diviseur, alors que la broche TRIG est reliée directement à la carte ?</li><li>Le niveau est à 25 %, la température à 41 °C et l&#x27;humidité à 60 %. Donnez l&#x27;état de chaque indicateur, l&#x27;état de la machine, la LED allumée et la cause affichée sur la page web.</li></ol>
+<ol><li>Les indicateurs surveillés (niveau, température, humidité) relèvent-ils de la maintenance systématique ou conditionnelle ? Justifiez. Que faudrait-il ajouter à la machine pour faire aussi de la maintenance systématique ?</li><li>Pourquoi utiliser deux seuils (alerte et alarme) plutôt qu&#x27;un seul ? Que doit faire l&#x27;opérateur dans chaque cas ?</li><li>Le capteur HC-SR04 mesure une durée. Expliquez comment le programme en déduit la distance, puis le niveau de lubrifiant.</li><li>Quel est le rôle de la broche TRIG et celui de la broche ECHO du HC-SR04 ? Laquelle est une entrée du capteur, laquelle est une sortie ?</li><li>Le niveau est à 25 %, la température à 41 °C et l&#x27;humidité à 60 %. Donnez l&#x27;état de chaque indicateur, l&#x27;état de la machine, la LED allumée et la cause affichée sur la page web.</li></ol>
 </section>
 <section><h2>8. Pistes d&#x27;amélioration</h2>
 <ul><li><b>Vers la version complète : </b>ajouter un bras motorisé (servomoteur) et un compteur de cycles pour la maintenance systématique, un potentiomètre pour l&#x27;effort du moteur, et deux boutons (marche / arrêt, entretien effectué) pour l&#x27;arrêt automatique et la remise en service.</li><li><b>Maintenance prévisionnelle : </b>mesurer la baisse du niveau de lubrifiant dans le temps et estimer le temps restant avant l&#x27;alerte.</li><li><b>Historique : </b>envoyer les mesures vers Arduino Cloud pour tracer leur évolution et repérer les tendances.</li><li><b>Alertes : </b>ajouter un buzzer, ou prévenir le technicien à distance.</li></ul>
@@ -87,7 +87,7 @@
 
 <span class="ar-com">// ---------- Broches</span>
 <span class="ar-type">const</span> <span class="ar-type">int</span> PIN_TRIG   = 33;   <span class="ar-com">// HC-SR04 TRIG</span>
-<span class="ar-type">const</span> <span class="ar-type">int</span> PIN_ECHO   = 25;   <span class="ar-com">// HC-SR04 ECHO (via pont diviseur 1 kΩ / 2 kΩ)</span>
+<span class="ar-type">const</span> <span class="ar-type">int</span> PIN_ECHO   = 25;   <span class="ar-com">// HC-SR04 ECHO (reliée directement)</span>
 <span class="ar-type">const</span> <span class="ar-type">int</span> PIN_DHT    = 4;    <span class="ar-com">// DHT11 DATA</span>
 <span class="ar-type">const</span> <span class="ar-type">int</span> LED_VERTE  = 21;
 <span class="ar-type">const</span> <span class="ar-type">int</span> LED_ORANGE = 19;

diff --git a/09_Application_Generateur_Page_Web/Generateur_Page_Web_ESP32_etudiant.html b/09_Application_Generateur_Page_Web/Generateur_Page_Web_ESP32_etudiant.html
@@ -964,7 +964,7 @@ function programme() {
   SS.filter(S => S.analog).forEach(S => o.push("//   - " + S.nom + " (entrée analogique) : signal sur " + pinNom(S.comp.pin) + ", alimentation 3V3 et GND"));
   SS.filter(S => S.bool && !S.sortie).forEach(S => o.push("//   - " + S.nom + " (entrée tout-ou-rien) sur " + pinNom(S.comp.pin) + (S.comp.cablage === "gnd" ? ", l'autre patte sur GND" : ", signal à 3,3 V quand il est actif")));
   sorties.forEach(S => o.push("//   - " + S.nom + " (sortie) sur " + pinNom(S.comp.pin) + (/led/i.test(S.nom) ? " avec une résistance de 220 ohms vers GND" : "")));
-  SS.filter(S => S.ultrason).forEach(S => o.push("//   - " + S.nom + " (capteur ultrason HC-SR04) : VCC sur VIN (5 V), TRIG sur " + pinNom(+S.comp.trig) + ", ECHO sur " + pinNom(+S.comp.echo) + " par un pont diviseur 1 kohm / 2 kohms, GND sur GND"));
+  SS.filter(S => S.ultrason).forEach(S => o.push("//   - " + S.nom + " (capteur ultrason HC-SR04) : VCC sur VIN (5 V), TRIG sur " + pinNom(+S.comp.trig) + ", ECHO sur " + pinNom(+S.comp.echo) + " (reliée directement), GND sur GND"));
   servos.forEach(S => o.push("//   - " + S.comp.nom + " (servomoteur SG90) : fil orange (signal) sur " + pinNom(+S.comp.pin) + ", fil rouge sur 3V3 (ou VIN), fil marron sur GND"));
   if (!SS.length) o.push("//   - rien (page fixe)");
   if (dht) o.push("// Bibliothèque à installer : « DHT sensor library » (Adafruit)");
@@ -983,7 +983,7 @@ function programme() {
     pad("bool " + S.var + " = false;", 41) + "// vrai si « " + S.on + " »"));
   sorties.forEach(S => o.push("", "// --- " + S.nom + " : sortie" + (S.auto ? " automatique" : "") + " ---", pad("const int " + PIN(S) + " = " + S.comp.pin + ";", 41) + "// broche", pad("bool " + S.var + " = false;", 41) + "// vrai si « " + S.on + " »"));
   SS.filter(S => S.ultrason).forEach(S => o.push("", "// --- " + S.nom + " : capteur ultrason HC-SR04 ---", pad("const int " + PIN(S) + "_TRIG = " + S.comp.trig + ";", 41) + "// broche TRIG (déclenchement)",
-    pad("const int " + PIN(S) + "_ECHO = " + S.comp.echo + ";", 41) + "// broche ECHO (écho, par le pont diviseur)", pad("float " + S.var + " = 0;", 41) + "// distance mesurée (" + S.unite + ")"));
+    pad("const int " + PIN(S) + "_ECHO = " + S.comp.echo + ";", 41) + "// broche ECHO (écho)", pad("float " + S.var + " = 0;", 41) + "// distance mesurée (" + S.unite + ")"));
   servos.forEach(S => o.push("", "// --- " + S.comp.nom + " : servomoteur SG90 ---", pad("const int " + PIN(S) + " = " + S.comp.pin + ";", 41) + "// broche du signal",
     pad("Servo srv_" + S.var + ";", 41) + "// le servomoteur", pad("int " + S.var + " = 90;", 41) + "// angle actuel (°)"));
 
@@ -1212,7 +1212,7 @@ function dessinerComps() {
           + champComp(k, "echo", "Broche ECHO", "<select data-c='echo'>" + optsPins(PINS_ENTREE, k.echo) + "</select>")
           + champComp(k, "unite", "Unité", opt("unite", [["mm", "millimètres (mm)"], ["cm", "centimètres (cm)"]])) + champComp(k, "dec", "Décimales", opt("dec", DEC))
           + champComp(k, "min", "Distance mini affichée", inputC(k, "min", "number")) + champComp(k, "max", "Distance maxi affichée", inputC(k, "max", "number"))
-          + "<p class='hint full'>Le HC-SR04 s'alimente en 5 V (broche VIN) : son signal ECHO passe par un pont diviseur 1 kΩ / 2 kΩ pour arriver en 3,3 V sur la carte.</p>";
+          + "<p class='hint full'>Le HC-SR04 s'alimente en 5 V (broche VIN). Sa broche ECHO se relie directement à la carte, sans résistance.</p>";
         if (k.type === "servo") {
           body += champComp(k, "pin", "Broche du signal (fil orange)", "<select data-c='pin'>" + optsPins(PINS_ES, k.pin) + "</select>")
             + "<label class='f full'><span>Commande</span>" + opt("commande", [["page", "Depuis le tableau de bord (boutons d'angle)"], ["suit", "Suit une entrée analogique (potentiomètre…)"]]) + "</label>";
